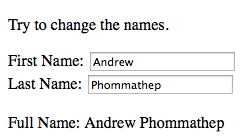
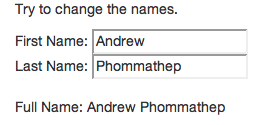
Bootstrapped

Changed region(s): [[0.0285, 0.024, 0.9675, 0.696], [0.0285, 0.792, 0.9106, 0.96]]

diff --git a/work/films_mySQL/films_mySQL.html b/work/films_mySQL/films_mySQL.html
@@ -1,6 +1,7 @@
 <!DOCTYPE html>
 <html>
 <head>
+<!--
 <style>
 table, th , td  {
   border: 1px solid grey;
@@ -13,22 +14,25 @@ table tr:nth-child(odd)	{
 table tr:nth-child(even) {
   background-color: #ffffff;
 }
-</style>
+</style> 
+-->
+<link rel="stylesheet" href="http://maxcdn.bootstrapcdn.com/bootstrap/3.2.0/css/bootstrap.min.css">
 <script src= "http://ajax.googleapis.com/ajax/libs/angularjs/1.2.26/angular.min.js"></script>
 </head>
 <body>
-<h2>Films</h2>
-<div ng-app="" ng-controller="customersController"> 
+<div class="container">
+	<h2>Films</h2>
+	<div ng-app="" ng-controller="customersController"> 
 
-<table>
-  <tr ng-repeat="x in titles">
-    <td>{{ x.title }}</td>
-    <td>{{ x.release_year }}</td>
-  </tr>
-</table>
+	<table class="table table-striped">
+	  <tr ng-repeat="x in titles">
+	    <td>{{ x.title }}</td>
+	    <td>{{ x.release_year }}</td>
+	  </tr>
+	</table>
 
-</div>
-
+	</div>
+</div> // container
 <script>
 function customersController($scope,$http) {
   $http.get("films_mysql.php")

diff --git a/work/repeatingHTMLElements.html b/work/repeatingHTMLElements.html
@@ -2,23 +2,26 @@
 <html>
 
 <head>
+<link rel="stylesheet" href = "http://maxcdn.bootstrapcdn.com/bootstrap/3.2.0/css/bootstrap.min.css">
+
 <script src= "http://ajax.googleapis.com/ajax/libs/angularjs/1.2.26/angular.min.js"></script>
 </head>
 
 <body>
-
-<div ng-app="" ng-init="names=[
-{name:'Los Angeles',state:'California'},
-{name:'San Francisco',state:'California'},
-{name:'New York City',state:'New York'}]">
-
-<p>Looping with objects:</p>
-<ul>
-  <li ng-repeat="x in names">
-  {{ x.name + ', ' + x.state }}</li>
-</ul>
-
+<div class="container">
+  
+  <div ng-app="" ng-init="names=[
+  {name:'Los Angeles',state:'California'},
+  {name:'San Francisco',state:'California'},
+  {name:'New York City',state:'New York'}]">
+  
+  <p>Looping with objects:</p>
+  <ul>
+    <li ng-repeat="x in names">
+    {{ x.name + ', ' + x.state }}</li>
+  </ul>
+  
+  </div>
 </div>
-
 </body>
 </html>

diff --git a/work/personController.html b/work/personController.html
@@ -2,20 +2,24 @@
 <html>
 
 <head>
+<link rel="stylesheet" href = "http://maxcdn.bootstrapcdn.com/bootstrap/3.2.0/css/bootstrap.min.css">
+
 <script src= "http://ajax.googleapis.com/ajax/libs/angularjs/1.2.26/angular.min.js"></script>
 </head>
 
 <body>
-
-<p>Try to change the names.</p>
-
-<div ng-app="" ng-controller="personController">
-
-First Name: <input type="text" ng-model="firstName"><br>
-Last Name: <input type="text" ng-model="lastName"><br>
-<br>
-Full Name: {{firstName + " " + lastName}}
-
+<div class="container">
+  
+  <p>Try to change the names.</p>
+  
+  <div ng-app="" ng-controller="personController">
+  
+  First Name: <input type="text" ng-model="firstName"><br>
+  Last Name: <input type="text" ng-model="lastName"><br>
+  <br>
+  Full Name: {{firstName + " " + lastName}}
+  
+  </div>
 </div>
 
 <script>

diff --git a/work/extendHTML.html b/work/extendHTML.html
@@ -2,18 +2,20 @@
 <html>
 
 <head>
+<link rel="stylesheet" href = "http://maxcdn.bootstrapcdn.com/bootstrap/3.2.0/css/bootstrap.min.css">
+
 <script src= "http://ajax.googleapis.com/ajax/libs/angularjs/1.2.26/angular.min.js"></script>
 </head>
 
 <body>
-
-<div ng-app="">
- 
-<p>Input something in the input box:</p>
-<p>Name: <input type="text" ng-model="name" value="Andrew"></p>
-<p ng-bind="name"></p>
-
+<div class="container">
+  <div ng-app="">
+   
+  <p>Input something in the input box:</p>
+  <p>Name: <input type="text" ng-model="name" value="Andrew"></p>
+  <p ng-bind="name"></p>
+  
+  </div>
 </div>
-
 </body>
 </html>
